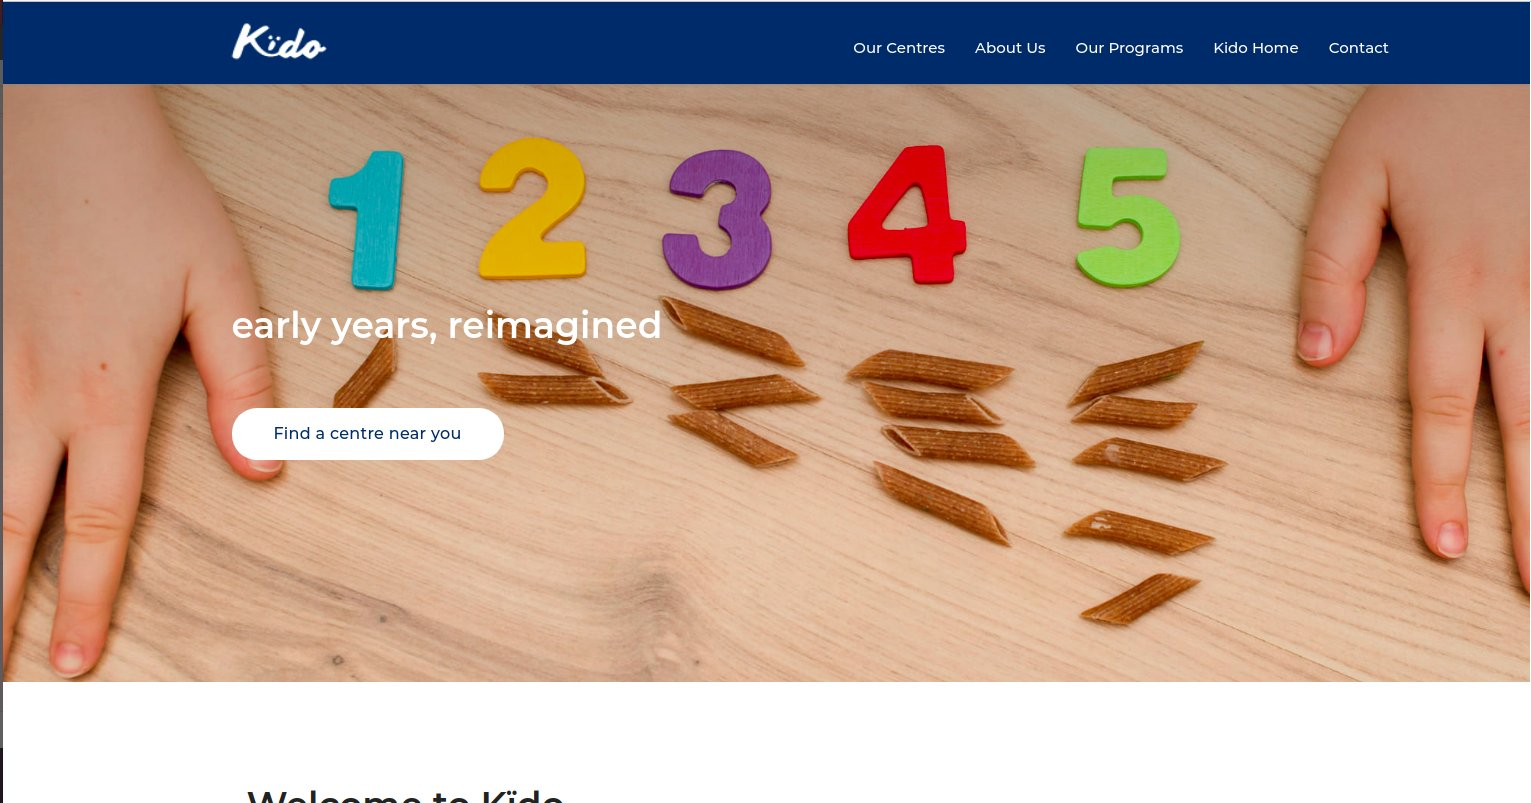
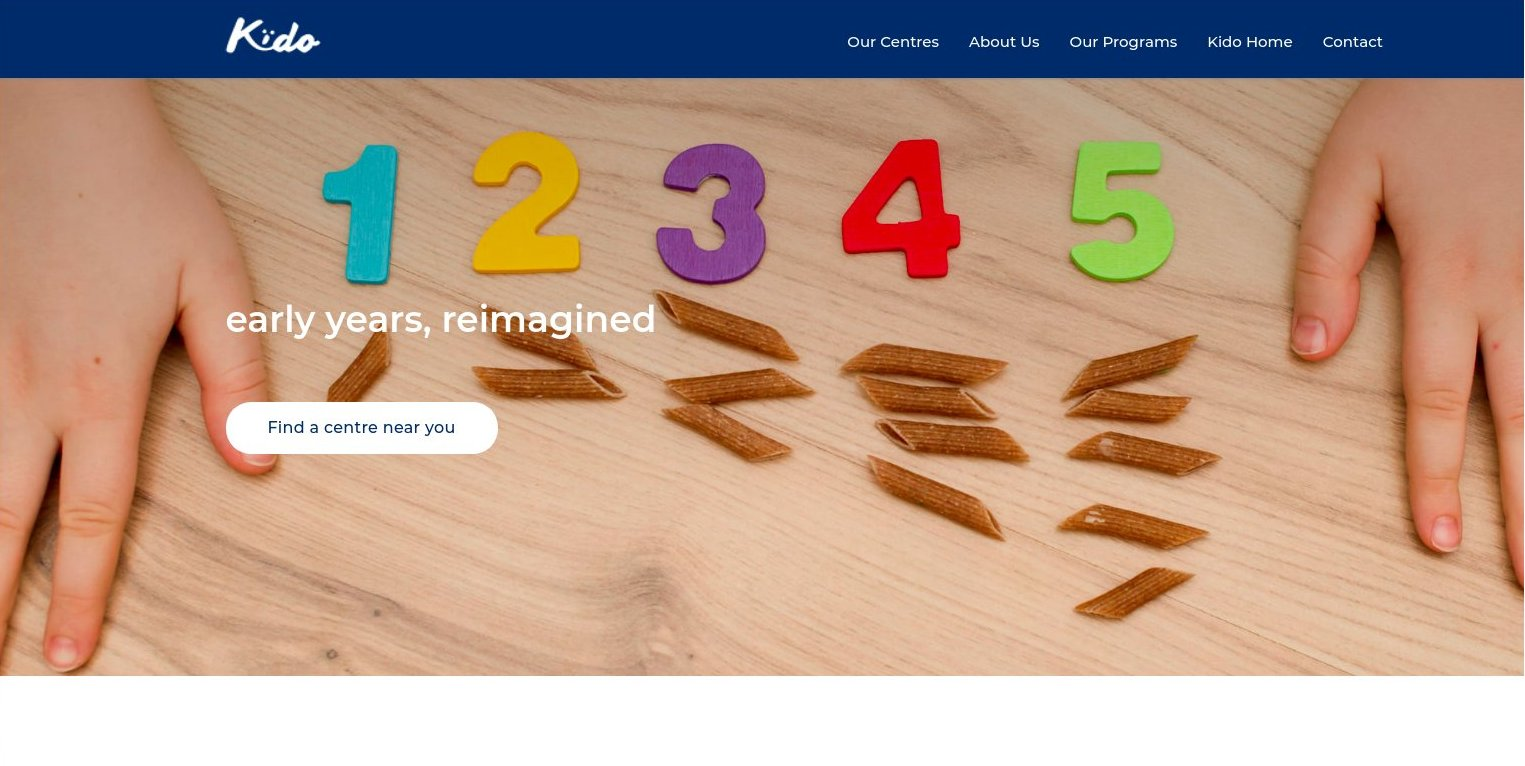
hubspot

diff --git a/index.html b/index.html
@@ -45,19 +45,24 @@
             display: none;background-color: #cccccc;
         }
         img{
-            position: absolute;top: 0; left: 0;
+            /* position: absolute; */
+            top: 0; left: 0;
         }
         html{
-            overflow: hidden;
+            /* overflow: hidden; */
+        }
+        body{
+            margin: 0;
         }
     </style>
 </head>
 <body>
 
-    <img src="home.png" alt="">
-    
+    <div>
+        <img src="home.jpg" alt="">
+    </div>
 
-    <center id="cookie_overlay">
+    <!-- <center id="cookie_overlay">
         <div id="cookie_section">
         <h3>This website uses cookies</h3>
             <p> We use cookies in a limited way on our website, mainly for security and to analyse the traffic on our website. This analysis is done in an aggregated and anonymous manner. We do not share information about your use of our site with any external organisations.</p>
@@ -85,7 +90,22 @@
               </table>
 
         </div>
-    </center>
+    </center> -->
+
+    <div style="width: 30vw;height: 50vh; margin: 1vw;">
+
+      
+        <script charset="utf-8" type="text/javascript" src="//js.hsforms.net/forms/shell.js"></script>
+        <script>
+          hbspt.forms.create({
+                portalId: "9397213",
+                formId: "9ab0c7da-9bcc-4ccd-9507-20f70f7b8894"
+        });
+        </script>
+  
+
+    </div>
+
 
     <script>
         window.fwSettings={
@@ -94,15 +114,6 @@
         !function(){if("function"!=typeof window.FreshworksWidget){var n=function(){n.q.push(arguments)};n.q=[],window.FreshworksWidget=n}}() 
       </script>
       <script type='text/javascript' src='https://ind-widget.freshworks.com/widgets/81000001596.js' async defer></script>    
-
-      
-      <script charset="utf-8" type="text/javascript" src="//js.hsforms.net/forms/shell.js"></script>
-      <script>
-        hbspt.forms.create({
-              portalId: "9397213",
-              formId: "9ab0c7da-9bcc-4ccd-9507-20f70f7b8894"
-      });
-      </script>
 
 
     <script>
